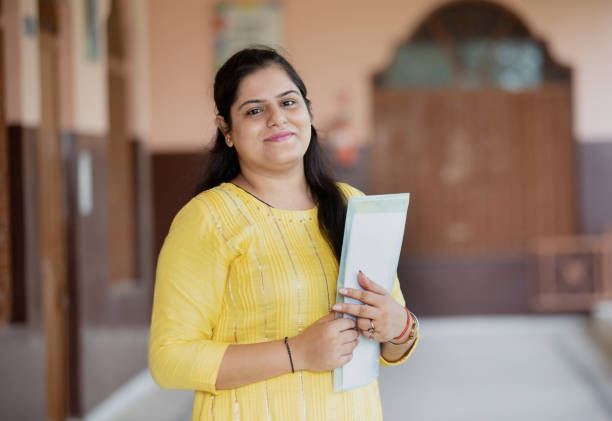
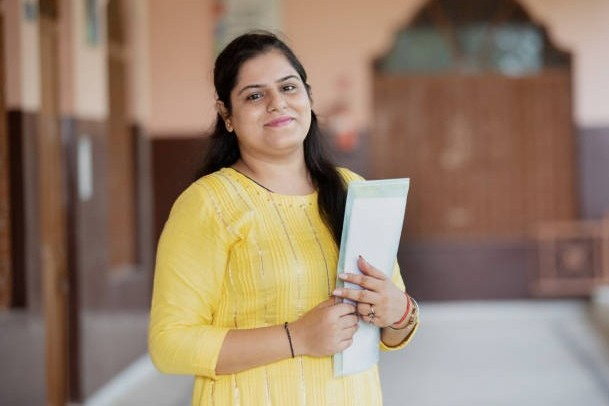
impact and stories

diff --git a/impacts.html b/impacts.html
@@ -81,14 +81,16 @@
             <div class="container">
                 <h2 class="had">Join us and donate</h2>
                 <div class="row">
-                    <h3>Help Us Make a Better Tomorrow</h3>
+                    <h2>Help Us Make a Better Tomorrow</h2>
                     <div class="col-md-8">
                         <p> Impact Beyond Borders is a Section 8 non-profit company based in Jaipur and working since
                             2022 September. Our work is focused on providing social development in the underprivileged
                             dwellings of the city using a holistic approach to tackle issues in the slums with Five main
                             focus areas: Impact Edu-center, Dream Impact School, Education Sponsership Program, Bloom
                             Impact, and Youth Empowerment.</p>
-                        <div class="row">
+                              <a href="get_involved.html" class="btn btn-warning px-4 py-2 btn_shadow btn:hover">Get Involved<i
+                                        class="bi bi-arrow-right"></i></a>
+                        <!-- <div class="row">
                             <div class="col-md-4">
                                 <ul>
                                     <li>Dream Impact School</li>
@@ -105,7 +107,7 @@
                                     <li>Youth Empowerment</li>
                                 </ul>
                             </div>
-                        </div>
+                        </div> -->
 
                     </div>
                     <div class="col-md-4">
@@ -120,7 +122,7 @@
         <!-- Education Section Start -->
         <section class="border-top border-white">
             <div class="container">
-                <h3 class="had"> Give a Helping Hand To Provide Education, Food, Health and Employeement</h3>
+                <h2> Give a Helping Hand To Provide Education, Food, Health and Employeement</h2>
                 <div class="row">
                     <div class="col-md-3">
                         <div class="card image">
@@ -170,7 +172,7 @@
         <!-- opportunities section start -->
         <section class="border-top border-white">
             <div class="container">
-                <h3 class="had">We Create opportunities For Poor People</h3>
+                <h2>We Create opportunities For Poor People</h2>
                 <div class="row align-items-center">
                     <div class="col-md-9">
                         <div class="video-box">
@@ -197,9 +199,7 @@
                             
                         </p>
                     </div>
-                    <div class="col-md-3">
-                        <img src="images/oppurnities.png" class="img-fluid  rounded about_shadow ">
-                    </div>
+                    
                 </div>
             </div>
         </section>

diff --git a/stories.html b/stories.html
@@ -118,7 +118,7 @@
         <!-- Story Section Start -->
         <section class="border-top border-white mt-2">
             <div class="container">
-                <h2 class="had">Success Story of Our NGO</h2>
+                <h2>Success Story of Our NGO</h2>
                 <div class="row">
                     
                     <div class="col-md-3 mt-3 mb-2">
@@ -127,7 +127,7 @@
                             <div class="card-body">
                                 <h3>Shibani</h3>
                                 <p class="card-text">In the slum where I live, many parents are worried about their
-                                    children's education. Poverty and circumstances...
+                                    children's education. Poverty and circumst...
                                 </p>
                                 <button type="button" class="btn btn-warning" data-bs-toggle="modal"
                                     data-bs-target="#shibani">
@@ -142,7 +142,7 @@
                             <div class="card-body">
                                 <h3>Kabita</h3>
                                 <p class="card-text">"Some people say I am unlucky. My father went away when I was born,
-                                    and later my mother died in an accident...
+                                    and later my mother died in an ...
                                 </p>
                                 <button type="button" class="btn btn-warning" data-bs-toggle="modal"
                                     data-bs-target="#kabita">
@@ -190,7 +190,7 @@
                             <div class="card-body">
                                 <h3>Deepk</h3>
                                 <p class="card-text">"Some people say I am unlucky. My father went away when I was born,
-                                    and later my mother died in an accident...
+                                    and later my mother died in an...
                                 </p>
                                 <button type="button" class="btn btn-warning" data-bs-toggle="modal"
                                     data-bs-target="#deepk">
@@ -266,7 +266,7 @@
                             <div class="card-body">
                                 <h3>Lavanaya</h3>
                                 <p class="card-text">I have never experienced parental love and compassion. Growing up
-                                    without parents is like not having an umbrella...
+                                    without parents is like not having an...
                                 </p>
                                 <button type="button" class="btn btn-warning" data-bs-toggle="modal"
                                     data-bs-target="#lavanaya">
